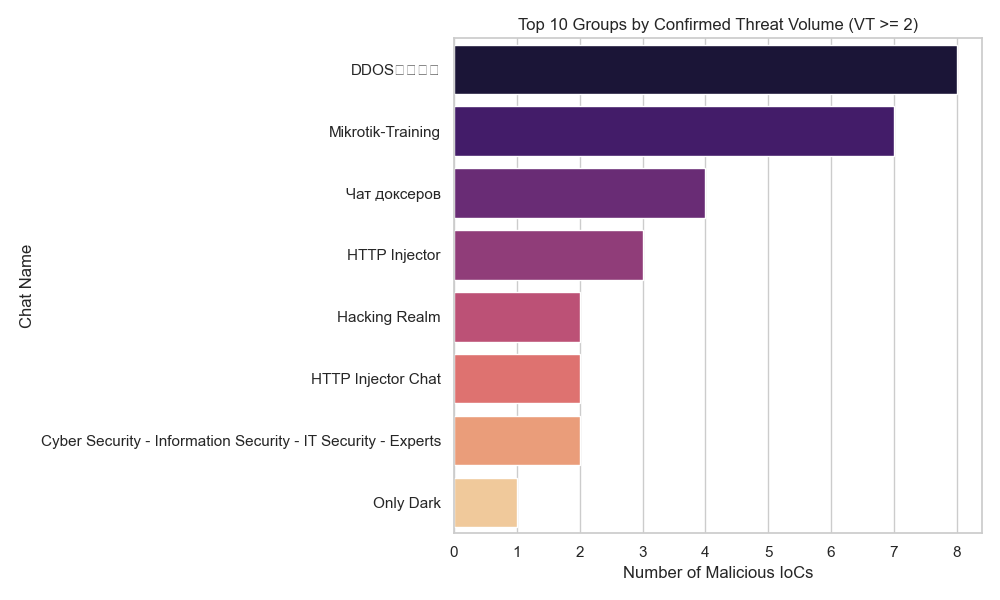
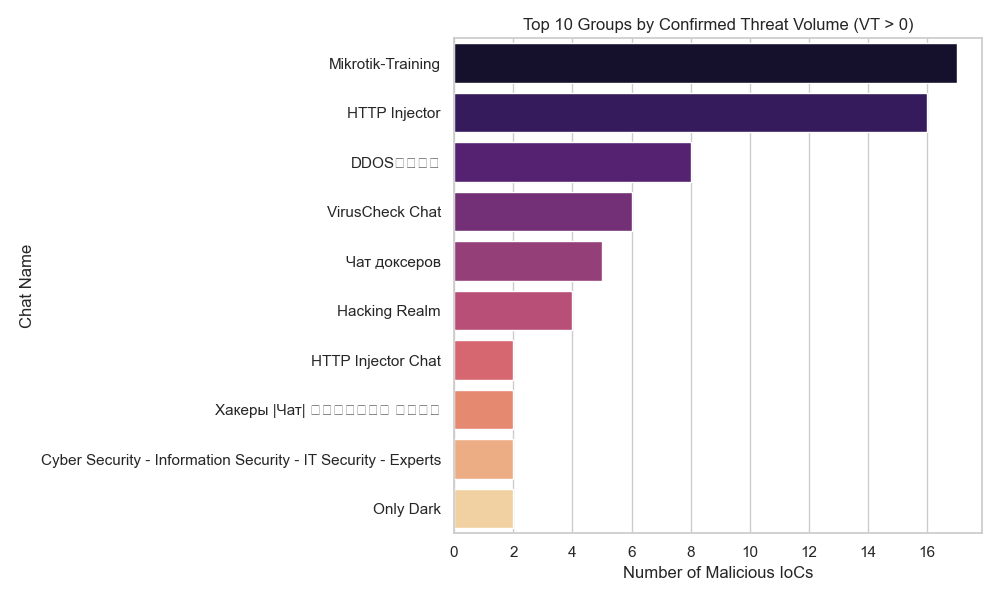
final plot

diff --git a/metriche_enriched.py b/metriche_enriched.py
@@ -109,13 +109,13 @@ plt.show()
 # --- METRIC 5: Top Offenders (Groups) ---
 print_header("5. Top 10 Telegram Groups for Confirmed Malware")
 # Filter confirmed threats from combined dataset
-confirmed_threats = df_combined[df_combined['vt_malicious'] >= 2] # Use >=2 for "High Confidence" threats here
+confirmed_threats = df_combined[df_combined['vt_malicious'] > 0] 
 top_groups = confirmed_threats['chat_name'].value_counts().head(10).reset_index()
 top_groups.columns = ['Chat Name', 'Confirmed Malware Count']
 
 plt.figure(figsize=(10, 6))
 sns.barplot(data=top_groups, y='Chat Name', x='Confirmed Malware Count', palette='magma')
-plt.title("Top 10 Groups by Confirmed Threat Volume (VT >= 2)")
+plt.title("Top 10 Groups by Confirmed Threat Volume (VT > 0)")
 plt.xlabel("Number of Malicious IoCs")
 plt.tight_layout()
 plt.show()
